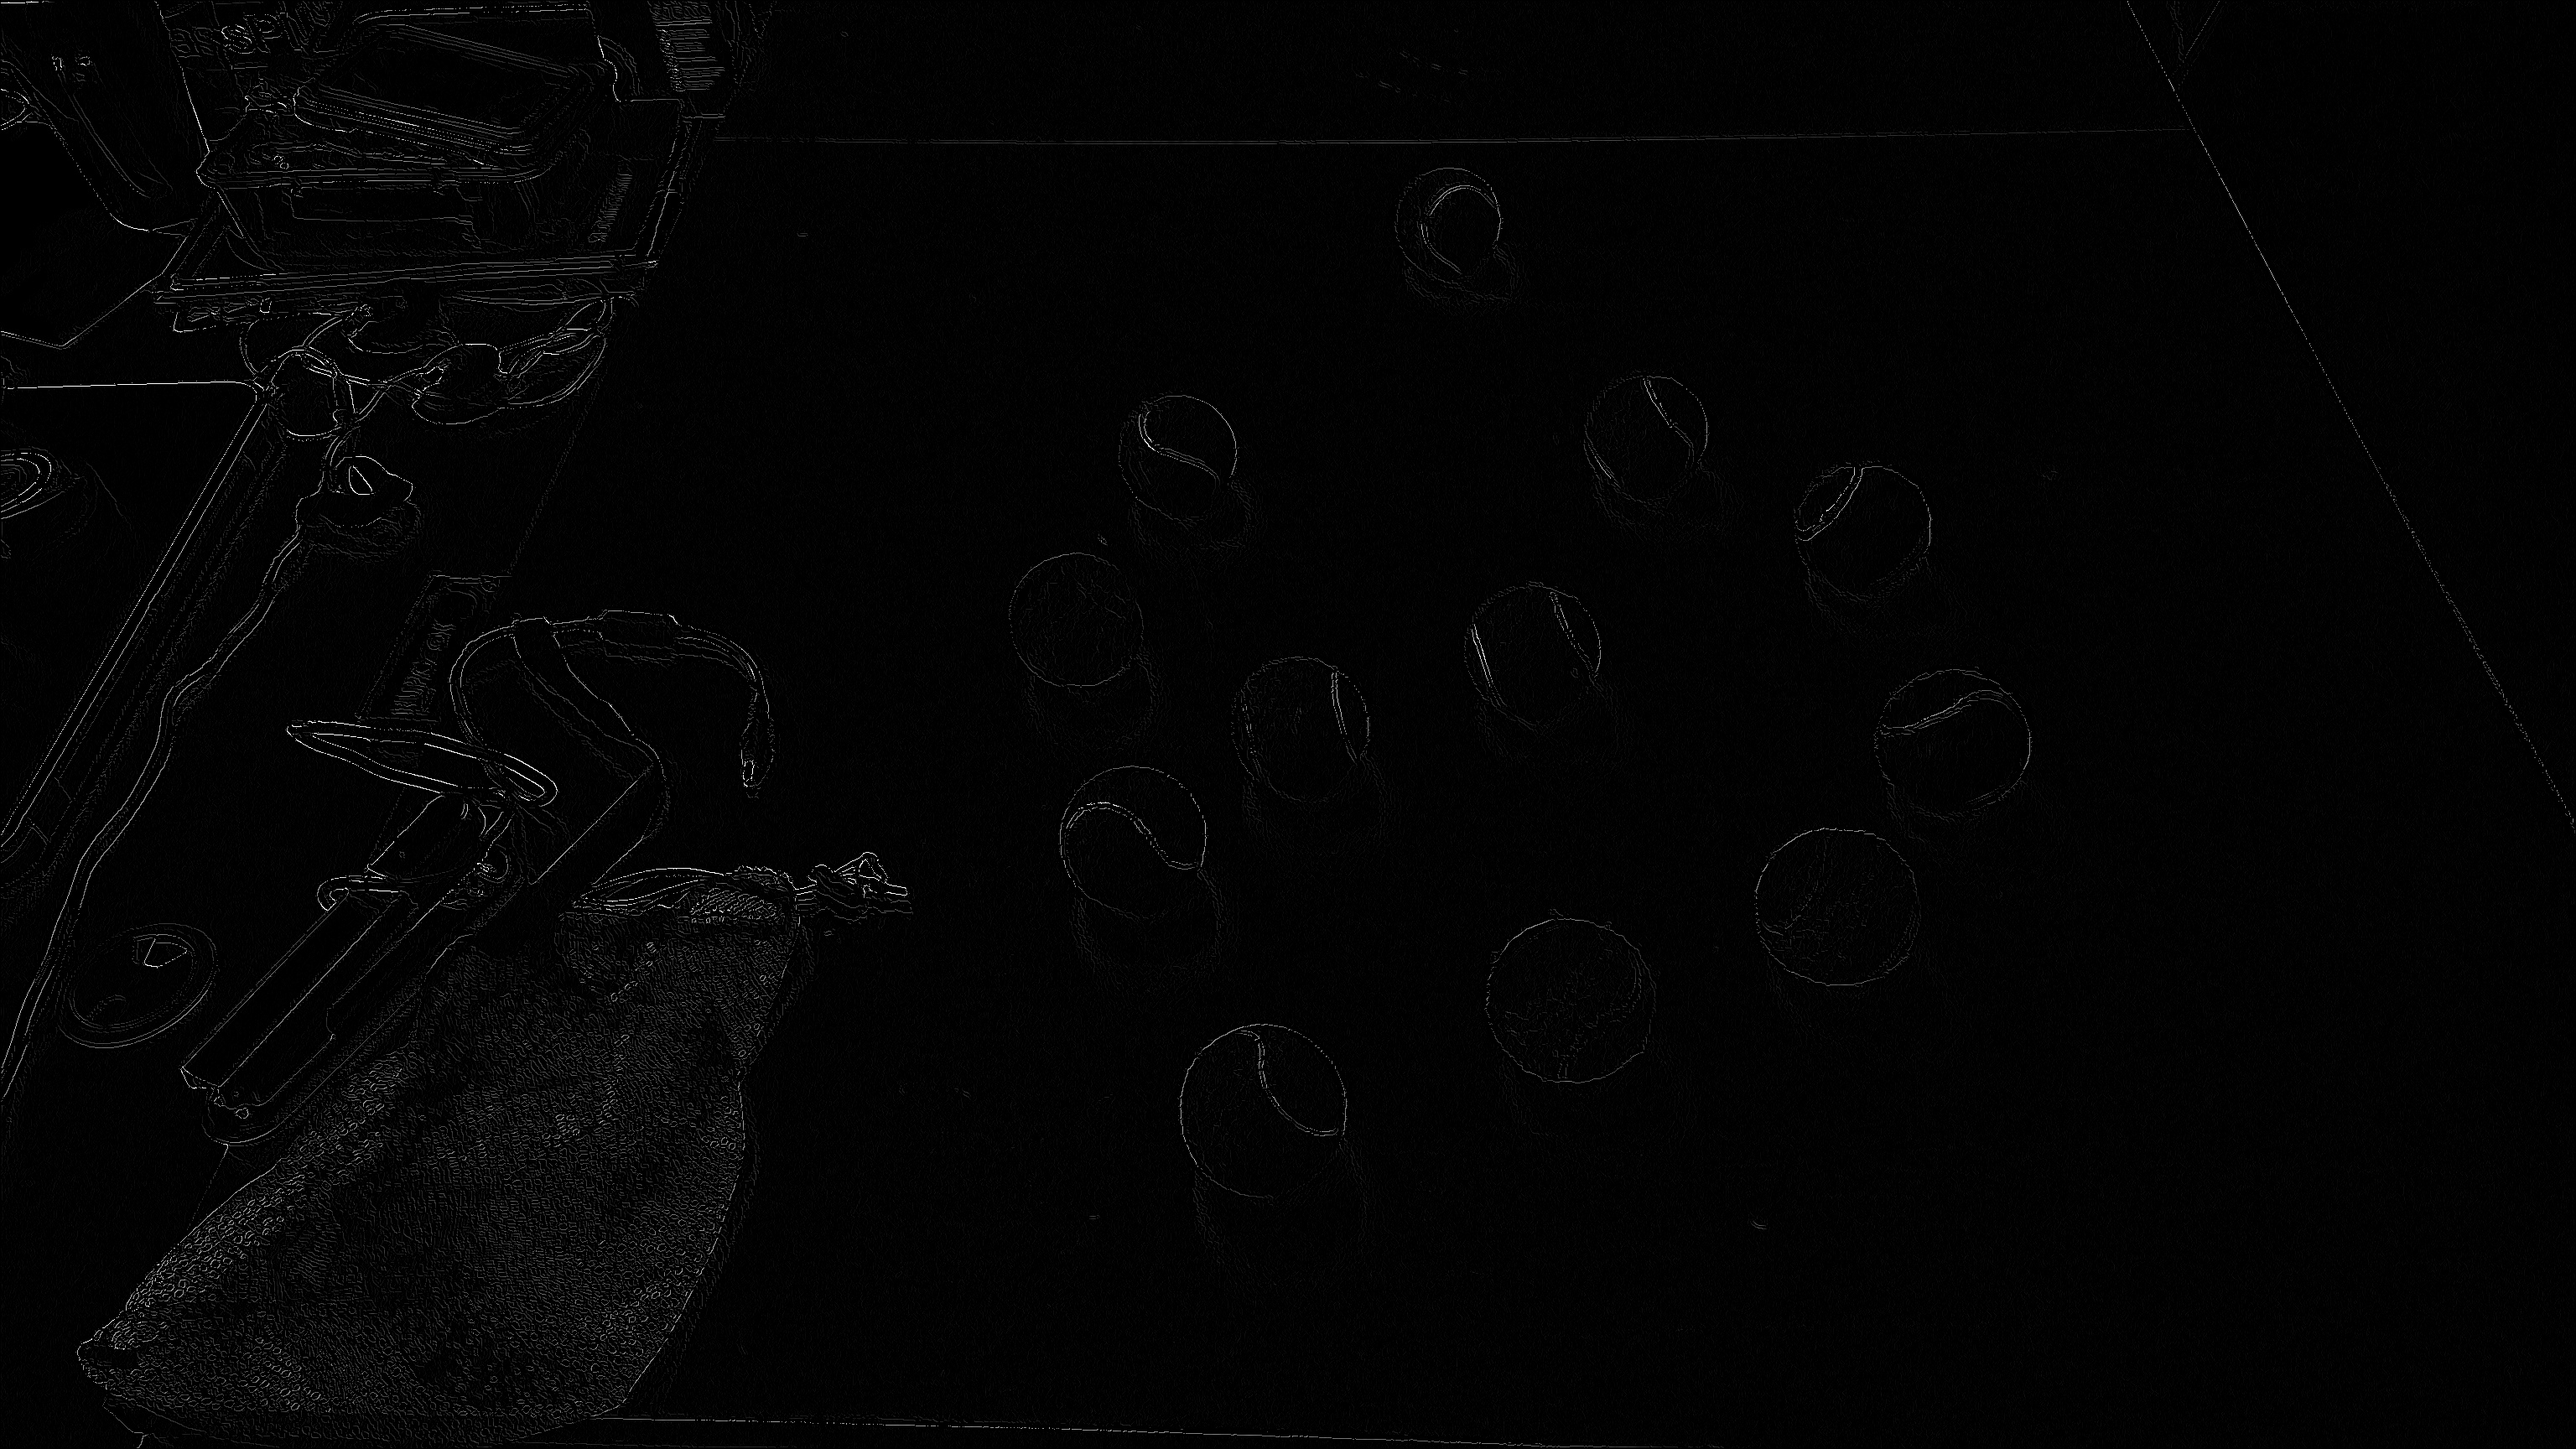
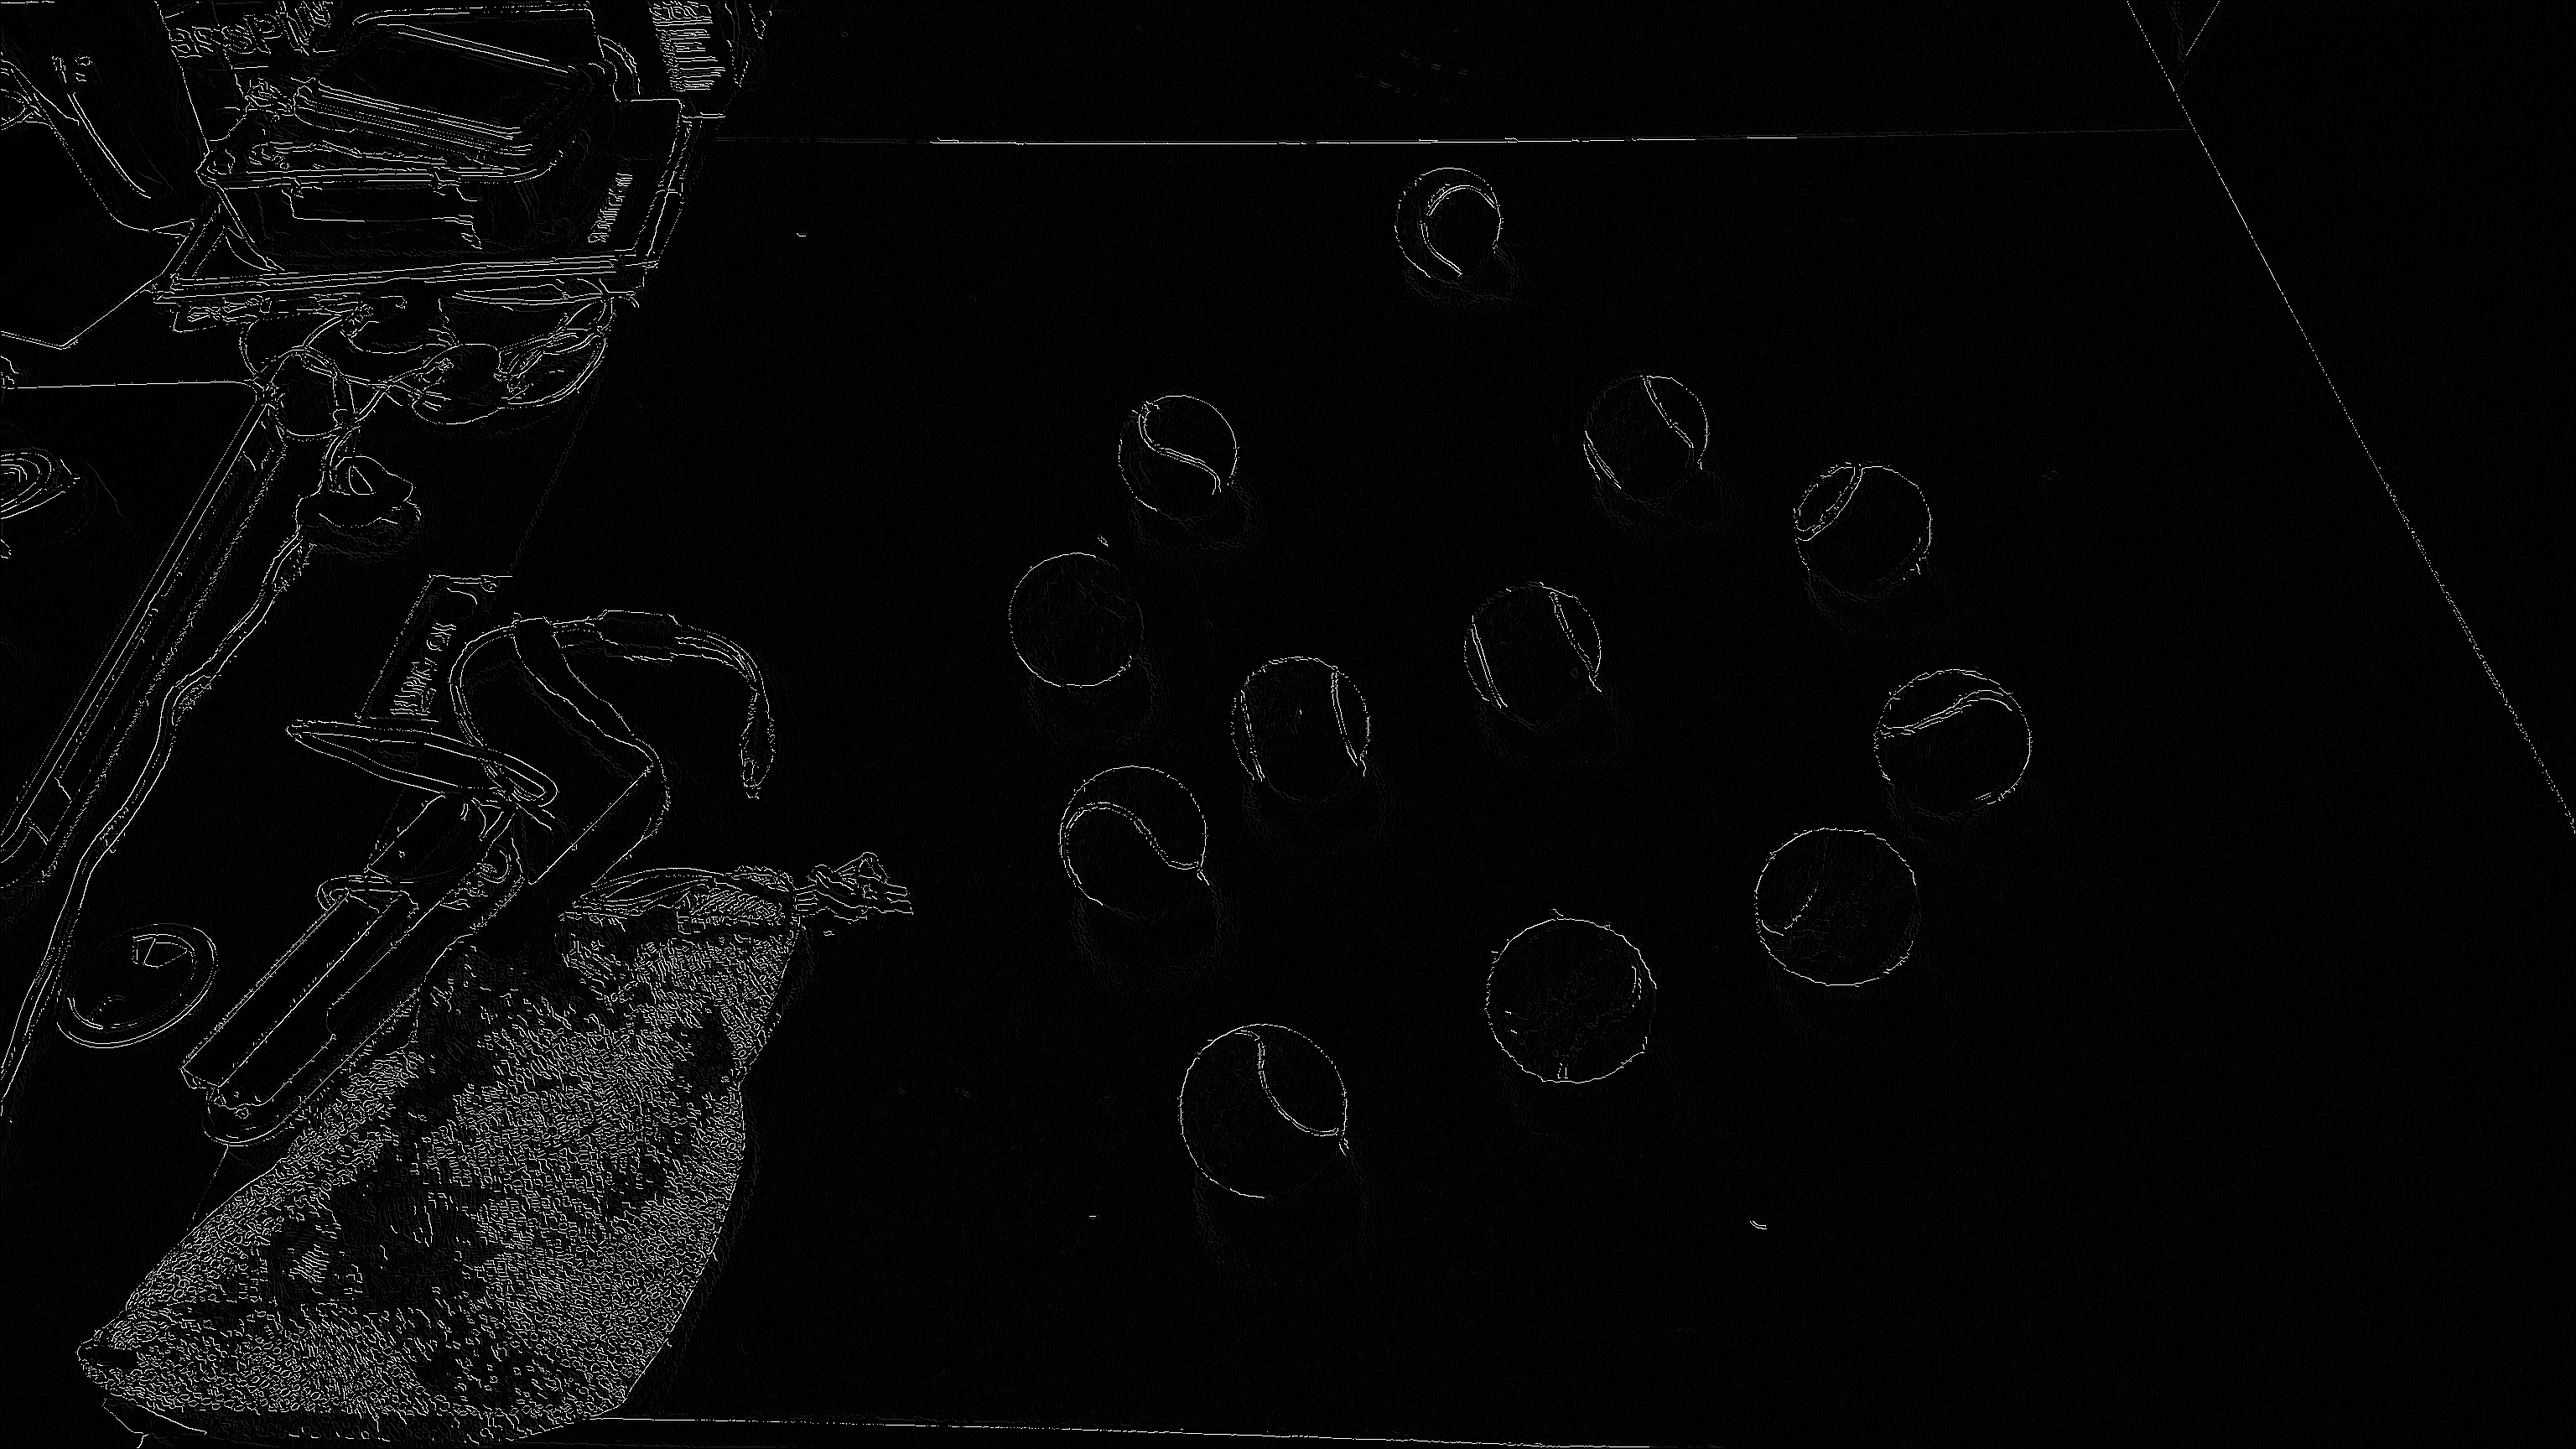
Hysteresis implemented into supressed image
needs tweaking of black and white limits

diff --git a/edged detection/Source.cpp b/edged detection/Source.cpp
@@ -2,7 +2,12 @@
 #include <cmath>
 
 using namespace cv;
+using namespace std;
+
+void removeGrey(Mat *sup, int x, int y);
 float pi = 3.141592654;
+int wl = 60;
+int bl = 10;
 
 int main(int arg) {
 
@@ -81,6 +86,20 @@ int main(int arg) {
 		x++;
 		y = 1;
 	}
+	x = 1;
+	while (x < cols - 1) {
+		
+		while (y < rows - 1) {
+			float lux = sup.at<float>(y, x);
+			if (lux >= wl) {
+				removeGrey(&sup, y, x);
+			}
+			y++;
+		}
+		x++;
+		y = 1;
+	}
+	
 	imwrite("imageInput.jpg", imgIn);
 	imwrite("mag.jpg", mag);
 	imwrite("xCor.jpg", xCor);
@@ -88,4 +107,33 @@ int main(int arg) {
 	imwrite("angle.jpg", angle);
 	imwrite("SupressedImage.jpg", sup);
 	return 0;
+}
+
+void removeGrey(Mat *sup, int x, int y) {
+	cout << x << ',' << y << endl;
+	sup[0].at<float>(x, y) = 0xffff;
+	if ((sup[0].at<float>(x - 1, y - 1) > bl) && (sup[0].at<float>(x - 1, y - 1) < wl)) {
+		removeGrey(sup, x - 1, y - 1);
+	}
+	else if ((sup[0].at<float>(x, y - 1) > bl) && (sup[0].at<float>(x, y - 1) < wl)) {
+		removeGrey(sup, x, y - 1);
+	}
+	else if ((sup[0].at<float>(x + 1, y - 1) > bl) && (sup[0].at<float>(x + 1, y - 1) < wl)) {
+		removeGrey(sup, x + 1, y - 1);
+	}
+	else if ((sup[0].at<float>(x + 1, y) > bl) && (sup[0].at<float>(x + 1, y) < wl)) {
+		removeGrey(sup, x + 1, y);
+	}
+	else if ((sup[0].at<float>(x + 1, y + 1) > bl) && (sup[0].at<float>(x + 1, y + 1) < wl)) {
+		removeGrey(sup, x + 1, y + 1);
+	}
+	else if ((sup[0].at<float>(x, y + 1) > bl) && (sup[0].at<float>(x, y + 1) < wl)) {
+		removeGrey(sup, x, y + 1);
+	}
+	else if ((sup[0].at<float>(x - 1, y + 1) > bl) && (sup[0].at<float>(x - 1, y + 1) < wl)) {
+		removeGrey(sup, x - 1, y + 1);
+	}
+	else if ((sup[0].at<float>(x - 1, y) > bl) && (sup[0].at<float>(x - 1, y) < wl)) {
+		removeGrey(sup, x - 1, y);
+	}
 }
